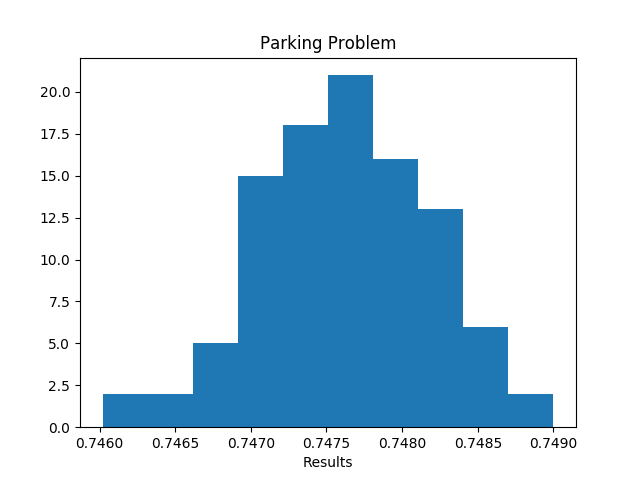
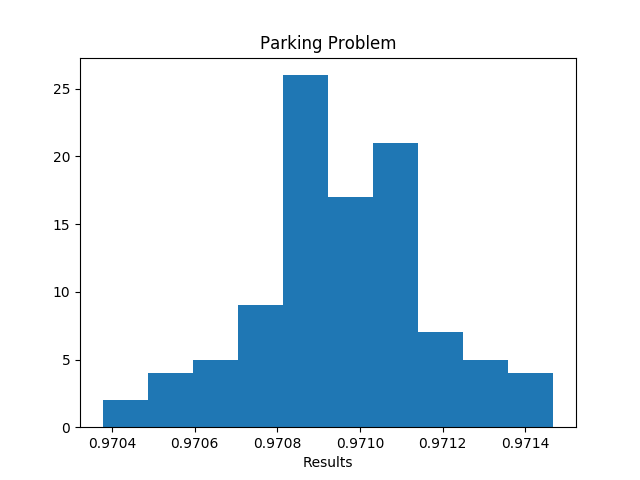
added simulation for parking with overlap

diff --git a/simulations/parking/parking_05.py b/simulations/parking/parking_05.py
@@ -1,0 +1,123 @@
+import sys
+
+import argparse
+
+import numpy as np
+
+
+
+def spots_available(spots, length, overlap):
+    if 0 <= spots[0] - (1.0 - (overlap / 2)):
+        return True
+
+    for i in range(len(spots) - 1):
+        if spots[i] + (1.0 - (overlap / 2)) <= spots[i + 1] - (1.0 - (overlap / 2)):
+            return True
+
+    return spots[-1] + (1.0 - (overlap / 2)) <= length - (1.0 - (overlap / 2))
+
+
+
+def spot_found(spot, spots, length, overlap):
+    if 0 <= spot <= spots[0] - (1.0 - (overlap / 2)):
+        return True
+
+    for i in range(len(spots) - 1):
+        if spots[i] + (1.0 - (overlap / 2)) <= spot <= spots[i + 1] - (1.0 - (overlap / 2)):
+            return True
+
+    return spots[-1] + (1.0 - (overlap / 2)) <= spot <= length - (1.0 - (overlap / 2))
+
+
+
+def get_parking(length):
+    return np.random.uniform(0, length)
+
+
+
+def total_gaps(spots):
+    total = 0
+
+    for i in range(len(spots) - 1):
+        value = spots[i + 1] - (spots[i] + 1)
+        if value > 0:
+            total += value 
+
+    value = spots[-1] - (spots[-2] + 1)
+    if value > 0:
+        total += value 
+
+    return total
+
+
+
+
+def parking_problem(length, overlap):
+    spots = [get_parking(length)]
+    count = 0
+
+    while spots_available(spots, length, overlap):
+        spot = get_parking(length)
+
+        if spot_found(spot, spots, length, overlap):
+            spots.append(spot)
+            spots.sort()
+
+        count += 1
+
+        if count == 10000000:
+            break
+
+    return (length - total_gaps(sorted(spots))) / float(length)
+
+
+
+
+def simulation(iterations, length, overlap):
+    results = []
+
+    print()
+    print('    Parking Problem: running {} simulations...'.format(iterations))
+    print()
+
+    for i in range(iterations):
+        results.append(parking_problem(length, overlap))
+        print('                   : iteration {:5d}'.format(i + 1), end = '\r')
+
+    print()
+    print()
+    print('                   : simulations completed...')
+    print()
+
+    return results
+
+
+
+def print_results(results):
+    print()
+    print()
+    print('    Parking Problem - Overlap Version: results')
+    print()
+    print('                         Distribution:')
+    print()
+    print('                                 mean: {:10.8f}'.format(np.mean(results)))
+    print('                   standard deviation: {:10.8f}'.format(np.std(results)))
+    print()
+
+
+
+def main(args):
+    iterations = int(args.iterations)
+    length     = int(args.length)
+    overlap    = float(args.overlap)
+
+    print_results(simulation(iterations, length, overlap))
+
+
+
+if __name__ == "__main__":
+    parser = argparse.ArgumentParser(description = "A script that estimates the jamming limit for Renyi's Parking Problem - Overlap Version")
+    parser.add_argument("-n", "--iterations",  dest = "iterations",  help = "the number of iterations to perform", required = True)
+    parser.add_argument("-l", "--length", dest = "length", help = "the length of the interval", required = True)
+    parser.add_argument("-o", "--overlap", dest = "overlap", help = "the overlap length", required = True)
+    main(parser.parse_args())

diff --git a/simulations/parking/parking_06.py b/simulations/parking/parking_06.py
@@ -1,0 +1,105 @@
+import sys
+
+import argparse
+
+import numpy as np
+import matplotlib.pyplot as plt
+
+
+def parking_problem(length, overlap):
+    spots = []
+
+    def find_spots(start, end):
+        spot = np.random.uniform(start, end)
+        spots.append(spot)
+
+        if start <= spot - (1.0 - (overlap / 2)):
+            find_spots(start, spot - (1.0 - (overlap / 2)))
+
+        if spot + (1.0 - (overlap / 2)) <= end:
+            find_spots(spot + (1.0 - (overlap / 2)), end)
+
+    find_spots(0, length)
+
+    return (length - total_gaps(sorted(spots))) / float(length)
+
+
+
+def total_gaps(spots):
+    total = 0
+
+    for i in range(len(spots) - 1):
+        value = spots[i + 1] - (spots[i] + 1)
+        if value > 0:
+            total += value 
+
+    value = spots[-1] - (spots[-2] + 1)
+    if value > 0:
+        total += value 
+
+    return total
+
+
+
+def simulation(iterations, length, overlap):
+    results = []
+
+    print()
+    print('    Parking Problem: running {} simulations...'.format(iterations))
+    print()
+
+    for i in range(iterations):
+        results.append(parking_problem(length, overlap))
+        print('                   : iteration {:5d}'.format(i + 1), end = '\r')
+
+    print()
+    print()
+    print('                   : simulations completed...')
+    print()
+
+    return results
+
+
+
+def print_results(results):
+    print()
+    print()
+    print('    Parking Problem - Overlap Version: results')
+    print()
+    print('                         Distribution:')
+    print()
+    print('                                 mean: {:10.8f}'.format(np.mean(results)))
+    print('                   standard deviation: {:10.8f}'.format(np.std(results)))
+    print()
+
+
+
+def plot_results(results):
+    plt.clf()
+    plt.hist(results)
+    plt.title('Parking Problem')
+    plt.xlabel('Results')
+    plt.savefig('./images/parking/parking_{}.png'.format(len(results)), format = 'png')
+    plt.close()
+
+
+
+def main(args):
+    iterations = int(args.iterations)
+    length     = int(args.length)
+    overlap    = float(args.overlap)
+
+    results    = simulation(iterations, length, overlap)
+
+    print_results(results)
+    plot_results(results)
+
+
+
+
+if __name__ == "__main__":
+    parser = argparse.ArgumentParser(description = "A script that estimates the jamming limit for Renyi's Parking Problem - Overlap Version")
+    parser.add_argument("-n", "--iterations",  dest = "iterations",  help = "the number of iterations to perform", required = True)
+    parser.add_argument("-l", "--length", dest = "length", help = "the length of the interval", required = True)
+    parser.add_argument("-o", "--overlap", dest = "overlap", help = "the overlap length", required = True)
+    main(parser.parse_args())

diff --git a/simulations/parking/parking_01.py b/simulations/parking/parking_01.py
@@ -83,7 +83,7 @@ def print_results(results):
 
 
 
-def main(argv):
+def main(args):
     iterations = int(args.iterations)
     length     = int(args.length)
 

diff --git a/simulations/parking/parking_02.py b/simulations/parking/parking_02.py
@@ -82,7 +82,7 @@ def print_results(results):
 
 
 
-def main(argv):
+def main(args):
     iterations = int(args.iterations)
     length     = int(args.length)
 
